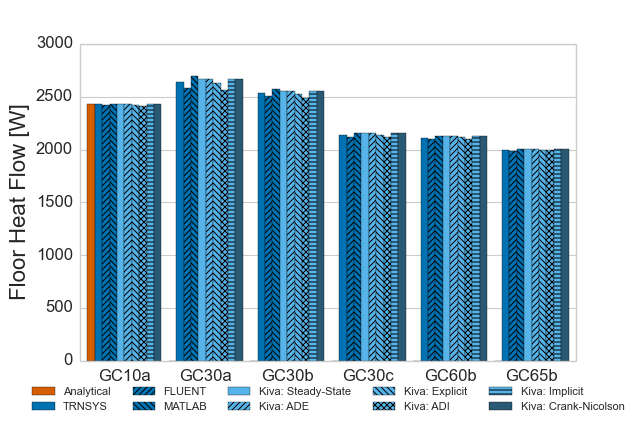
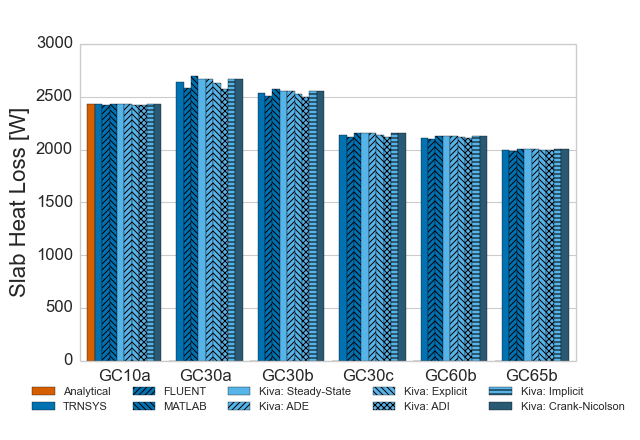
Update scripts for harmonic cases.

Changed region(s): [[0.0, 0.2364, 0.0625, 0.6795]]

diff --git a/BESTEST/scripts/bestest_harmonic.py b/BESTEST/scripts/bestest_harmonic.py
@@ -36,6 +36,49 @@ def readTimeseries(case, ID):
                     index_col=0)
     
     return list(df.ix['2100'].W)
+
+def getXLSsum(case, ID):
+    worksheet = workbook.sheet_by_name(ID)
+    if (case == 'GC40a'):
+        row = 69
+    elif (case == 'GC40b'):
+        row = 70
+    elif (case == 'GC45b'):
+        row = 71
+    elif (case == 'GC50b'):
+        row = 72
+    elif (case == 'GC55b'):
+        row = 73
+    elif (case == 'GC70b'):
+        row = 74
+    elif (case == 'GC80b'):
+        row = 75
+    elif (case == 'GC40c'):
+        row = 76
+    elif (case == 'GC45c'):
+        row = 77
+    elif (case == 'GC55c'):
+        row = 78
+    elif (case == 'GC80c'):
+        row = 79
+    
+    
+    return worksheet.cell_value(row,4)
+    
+
+def getSum(case, solution):
+    if (solution.ref):
+        total = getXLSsum(case, solution.ID)
+    else:
+        total = sum(readTimeseries(case,solution.ID))/1000.0
+        
+    if total < 0:
+        total = 0    
+    if case == 'GC50b':
+        return total/10.0
+    else:
+        return total
+
         
 print "Read results..."    
 
@@ -49,10 +92,9 @@ solutions.append(adi_solution)
 solutions.append(implicit_solution)
 solutions.append(cn_solution)
 
-cases = ['GC40a']
-
 # Line Chart
-print "Create figure..."
+print "Create figure for GC40a..."
+
 file_name = 'bestest_gc40a'
 
 # Figure style
@@ -65,16 +107,172 @@ ax = fig.add_subplot(111)
 for soln in solutions:
     print "...Plotting: " + soln.name
     soln.values = getValues('GC40a',soln)
-    ax.plot(soln.values, label=soln.name)
+    ax.plot(soln.values, label=soln.name,linewidth=0.5)
 
-ax.set_ylim([0,4000])
+ax.set_ylim([2000,3400])
 ax.set_xlim([0,8760])
+ax.set_ylabel('Slab Heat Loss [W]')
+ax.set_xlabel('Hour of Year')
 
-ax.legend(loc='upper center', ncol=5, bbox_to_anchor=(0.5,-0.05), fancybox=True)
+box = ax.get_position()
+ax.set_position([box.x0, box.y0 + box.height*0.2, box.width, box.height*0.8])
+
+ax.legend(loc='upper center', ncol=4, bbox_to_anchor=(0.5,-0.15), fancybox=True)
 ax.yaxis.grid()
 
-plt.show()
-#fig.savefig(output_dir + 'images/' + file_name + '.pdf')
+fig.savefig(output_dir + 'images/' + file_name + '.pdf')
+
+# Line Chart
+print "Create figure for GC40b..."
+
+file_name = 'bestest_gc40b'
+
+# Figure style
+sns.set_style("whitegrid", {'axes.grid': False})
+sns.set_context("paper", {'axes.labelsize': 16, 'xtick.labelsize': 12, 'ytick.labelsize': 12})
+sns.set_palette('Dark2',8)
+figb = plt.figure()
+axb = figb.add_subplot(111)
+
+for soln in solutions:
+    print "...Plotting: " + soln.name
+    soln.values = getValues('GC40b',soln)
+    axb.plot(soln.values, label=soln.name,linewidth=0.5)
+
+axb.set_ylim([2000,3400])
+axb.set_xlim([0,8760])
+axb.set_ylabel('Slab Heat Loss [W]')
+axb.set_xlabel('Hour of Year')
+
+box = axb.get_position()
+axb.set_position([box.x0, box.y0 + box.height*0.2, box.width, box.height*0.8])
+
+axb.legend(loc='upper center', ncol=4, bbox_to_anchor=(0.5,-0.15), fancybox=True)
+axb.yaxis.grid()
+
+figb.savefig(output_dir + 'images/' + file_name + '.pdf')
+
+# Line Chart
+print "Create figure for GC40c..."
+
+file_name = 'bestest_gc40c'
+
+# Figure style
+sns.set_style("whitegrid", {'axes.grid': False})
+sns.set_context("paper", {'axes.labelsize': 16, 'xtick.labelsize': 12, 'ytick.labelsize': 12})
+sns.set_palette('Dark2',8)
+figc = plt.figure()
+axc = figc.add_subplot(111)
+
+for soln in solutions:
+    print "...Plotting: " + soln.name
+    soln.values = getValues('GC40c',soln)
+    axc.plot(soln.values, label=soln.name,linewidth=0.5)
+
+axc.set_ylim([1600,3000])
+axc.set_xlim([0,8760])
+axc.set_ylabel('Slab Heat Loss [W]')
+axc.set_xlabel('Hour of Year')
+
+box = axc.get_position()
+axc.set_position([box.x0, box.y0 + box.height*0.2, box.width, box.height*0.8])
+
+axc.legend(loc='upper center', ncol=4, bbox_to_anchor=(0.5,-0.15), fancybox=True)
+axc.yaxis.grid()
+
+figc.savefig(output_dir + 'images/' + file_name + '.pdf')
+
+
+
+# Bar chart
+print "Creating Bar Charts..."
+sns.set_context("paper", {'axes.labelsize': 16, 'xtick.labelsize': 8, 'ytick.labelsize': 12})
+
+file_name = "bestest_harmonic"
+
+fig1 = plt.figure()
+ax1 = fig1.add_subplot(111)
+
+fig2 = plt.figure()
+ax2 = fig2.add_subplot(111)
+
+cases = ['GC40a',
+         'GC40b',
+         'GC40c',
+         'GC45b',
+         'GC45c',
+         'GC50b',
+         'GC55b',
+         'GC55c',
+         'GC70b',
+         'GC80b',
+         'GC80c']
+
+names = []
+colors = []
+hatches = []
+
+for soln in solutions:
+    names.append(soln.name)
+    colors.append(soln.color)
+    hatches.append(soln.hatch)
+
+
+width = 1
+ticks1 = []
+ticks2 = []
+i1 = 1
+i2 = 1
+
+data = []
+time_data = []
+
+for case in cases:
+    ticks1.append(i1+4)
+    ticks2.append(i2+2.5)
+    for soln in solutions:
+        print "...Calculating: " + case + ": " + soln.name
+        value = getSum(case, soln)
+        data.append(ax1.bar(i1, value, width, color=soln.color, hatch=soln.hatch))
+        if (not soln.ref):
+            time = getTime(case,soln)
+            time_data.append(ax2.bar(i2, time, width, color=soln.color,hatch=soln.hatch))
+            i2+=1
+        i1+=1
+    i1+=1
+    i2+=1
+
+box = ax1.get_position()
+ax1.set_position([box.x0, box.y0 + box.height*0.1, box.width, box.height*0.9])
+ax1.set_autoscalex_on(False)
+ax1.set_xlim([0,i1])
+ax1.set_xticks(ticks1)
+ax1.set_xticklabels(cases)
+ax1.yaxis.grid()
+ax1.set_ylabel('Annual Slab Heat Loss [kWh]')
+
+legend = ax1.legend(data[:8], names[:8], loc='upper center', ncol=4, bbox_to_anchor=(0.5,-0.05),
+                   fancybox=True)
+
+fig1.savefig('../figures/' + file_name + '.png')
+fig1.savefig(output_dir + 'images/' + file_name + '.pdf')
+
+box = ax2.get_position()
+ax2.set_position([box.x0, box.y0 + box.height*0.1, box.width, box.height*0.9])
+
+ax2.set_xlim([0,i2])
+#ax2.set_ylim([1,100000])
+ax2.set_xticks(ticks2)
+ax2.set_xticklabels(cases)
+ax2.yaxis.grid()
+ax2.set_ylabel('Simulation Time [s]')
+
+legend2 = ax2.legend(time_data[:5], names[3:], loc='upper center', ncol=5, bbox_to_anchor=(0.5,-0.05),
+                   fancybox=True)
+
+
+fig2.savefig(output_dir + 'images/' + file_name + '_times.pdf')
+
 
 print "Done."
 

diff --git a/BESTEST/scripts/adi_fractions.py b/BESTEST/scripts/adi_fractions.py
@@ -13,7 +13,7 @@ def readTimeseries(case, ID):
         
 print "Read results..."    
 
-ids = ['30', '20', '15', '10', '5']
+ids = ['00001', '0001', '001', '01']
 
 # Line Chart
 print "Create figure..."
@@ -27,16 +27,16 @@ fig = plt.figure()
 ax = fig.add_subplot(111)
 
 for id in ids:
-    print "...Plotting: " + id + ' min'
-    values = readTimeseries('ADE-Timestep',id)
-    ax.plot(values, label=id + ' min')
+    print "...Plotting: f = 0." + id
+    values = readTimeseries('ADI-Fraction',id)
+    ax.plot(values, label='f = 0.' + id)
 
-#print "...Plotting: Implicit"
-#values = readTimeseries('GC40a','Implicit')
-#ax.plot(values, label='Implicit')
+print "...Plotting: Implicit"
+values = readTimeseries('GC40a','Implicit')
+ax.plot(values, label='Implicit')
 
 
-ax.set_ylim([0,4000])
+#ax.set_ylim([0,4000])
 ax.set_xlim([0,8760])
 
 ax.legend(loc='upper center', ncol=5, bbox_to_anchor=(0.5,-0.05), fancybox=True)

diff --git a/BESTEST/scripts/init_methods.py b/BESTEST/scripts/init_methods.py
@@ -243,7 +243,7 @@ box = ax2.get_position()
 ax2.set_position([box.x0 +  box.width*0.05, box.y0 + box.height*0.05, box.width*0.95, box.height*0.8])
 ax2.legend(handles, labels, loc='upper center', ncol=3, bbox_to_anchor=(0.5,1.3), fancybox=True)
 ax2.yaxis.grid()
-ax2.set_xlim([-20,1800])
+ax2.set_xlim([-20,1250])
 ax2.set_ylim([-0.35,0.35])
 ax2.set_ylabel('Relative Difference in \n Annual Slab Heat Loss')
 ax2.set_xlabel('Additional Simulation Runtime [s]')

diff --git a/BESTEST/scripts/bestest_ss.py b/BESTEST/scripts/bestest_ss.py
@@ -117,7 +117,7 @@ ax.set_ylim([0,3000])
 ax.set_xticks(ticks)
 ax.set_xticklabels(cases)
 ax.yaxis.grid()
-ax.set_ylabel('Floor Heat Flow [W]')
+ax.set_ylabel('Slab Heat Loss [W]')
 
 legend = ax.legend(data[:10], names[:10], loc='upper center', ncol=5, bbox_to_anchor=(0.5,-0.05),
                    fancybox=True)

diff --git a/README.md b/README.md
@@ -8,3 +8,6 @@ BESTEST
 
 ### Steady-State Results:
 ![Alt Text](https://raw.githubusercontent.com/nealkruis/kiva_data/develop/BESTEST/figures/bestest_ss.png "IEA BESTEST Steady-State Test Case Results")
+
+### Harmonic (Unsteady) Results:
+![Alt Text](https://raw.githubusercontent.com/nealkruis/kiva_data/develop/BESTEST/figures/bestest_harmonic.png "IEA BESTEST Harmonic Test Case Results")
